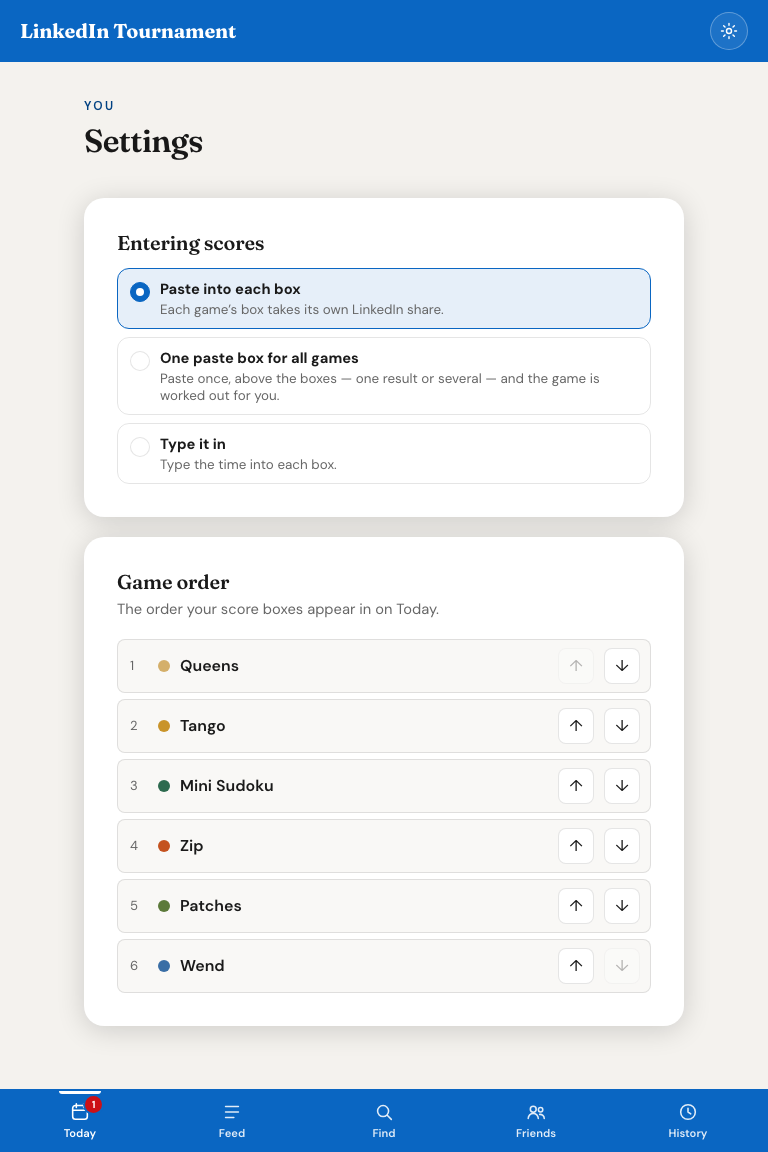
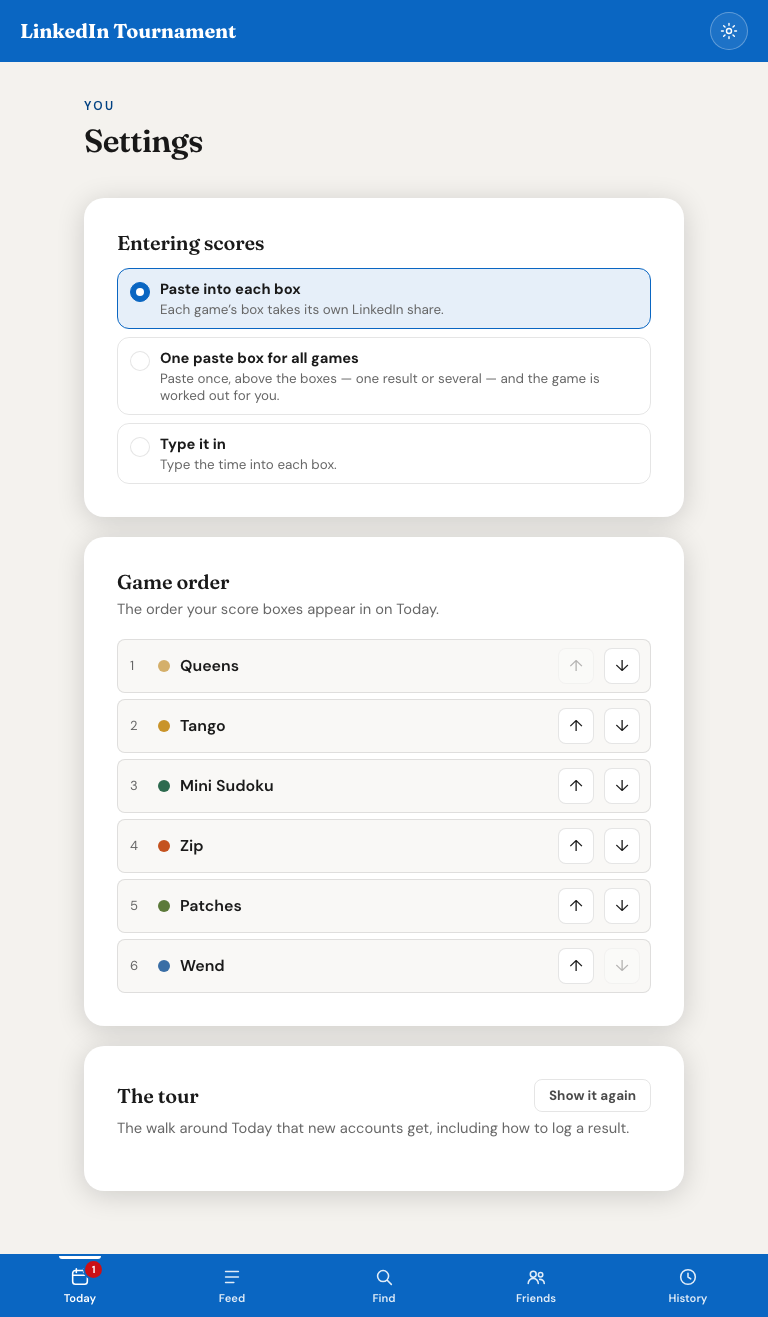
A first-visit tour for new accounts
Seven steps over Today — above all, how to log a result (worded for the
entry mode you've chosen) — then the day tabs, today vs. friends,
tournaments, the nav and settings. Shown once, after onboarding;
Settings can bring it back. The paste box's placeholder is shorter and
in the app's font, so it no longer wraps mid-word on a phone.

diff --git a/components/Walkthrough.jsx b/components/Walkthrough.jsx
@@ -1,0 +1,126 @@
+// components/Walkthrough.jsx
+// The first-visit tour of Today for a brand-new account (profile.showTour,
+// set at onboarding): one step per part of the page, each highlighting it
+// with a short note — above all, how to log a result. Skipping or finishing
+// clears the flag; Settings can bring it back.
+//
+// Steps point at elements by their data-tour attribute. The app shell has
+// two of some (sidebar and phone tab bar), so the visible one is used; a
+// step whose element isn't on the page is left out.
+import { useState, useEffect, useLayoutEffect, useRef, useCallback } from 'react';
+import { useAuth } from '../lib/useAuth';
+
+function stepsFor(mode, name) {
+  const howToLog = {
+    paste: 'Play a game on LinkedIn, then tap Share → Copy. Paste it into that game’s box here and confirm — the time and puzzle number are read for you. Rather type it? Each box has “Type it in”.',
+    single: 'Play a game on LinkedIn, then tap Share → Copy. Paste it into the box at the top — one result, or several at once — and it works out which game each is. Check, then Save.',
+    type: 'Play a game on LinkedIn, then type your time into that game’s box. (You can switch to pasting LinkedIn’s share text in Settings.)',
+  }[mode] || '';
+  return [
+    { id: 'welcome', title: `Welcome, ${name}`, body: 'A quick look around before your first puzzle — about thirty seconds.' },
+    { id: 'scores', target: 'scores', title: 'Log your times here', body: howToLog },
+    { id: 'days', target: 'days', title: 'Today, or yesterday', body: 'New puzzles go up at 9:00. Missed one? Switch to Yesterday and fill it in — it still counts.' },
+    { id: 'compare', target: 'compare', title: 'Today vs. friends', body: 'Where your time ranks among your friends, game by game.' },
+    { id: 'tournaments', target: 'tournaments', title: 'Tournaments', body: 'Compete over a month. Start one with “+ New”, or Find one to join — invites show up at the top of this page.' },
+    { id: 'nav', target: 'nav', title: 'Feed, friends and history', body: 'The Feed shows your friends’ times: react with an emoji or reply. Add people by username in Friends. History is your own record.' },
+    { id: 'settings', target: 'settings', title: 'Make it yours', body: 'Choose one paste box for every game, put your games in your own order, or sign out — it’s all in here.' },
+  ];
+}
+
+const visibleTarget = id => [...document.querySelectorAll(`[data-tour="${id}"]`)].find(el => el.getClientRects().length > 0) || null;
+
+export default function Walkthrough() {
+  const { profile, setShowTour } = useAuth();
+  const [steps, setSteps] = useState(null);
+  const [i, setI] = useState(0);
+  const [rect, setRect] = useState(null);
+  const cardRef = useRef(null);
+
+  // Settle which steps apply once the page has rendered its parts.
+  useEffect(() => {
+    const t = setTimeout(() => {
+      const all = stepsFor(profile?.scoreEntryDefault || 'paste', profile?.username || 'there');
+      setSteps(all.filter(s => !s.target || visibleTarget(s.target)));
+    }, 400);
+    return () => clearTimeout(t);
+  }, [profile?.scoreEntryDefault, profile?.username]);
+
+  const step = steps?.[i];
+
+  // Bring the step's element into view and track where it is.
+  useLayoutEffect(() => {
+    if (!step) return undefined;
+    const el = step.target ? visibleTarget(step.target) : null;
+    if (!el) { setRect(null); return undefined; }
+    el.scrollIntoView({ block: 'center', inline: 'nearest' });
+    const measure = () => setRect(el.getBoundingClientRect());
+    measure();
+    window.addEventListener('resize', measure);
+    window.addEventListener('scroll', measure, true);
+    return () => {
+      window.removeEventListener('resize', measure);
+      window.removeEventListener('scroll', measure, true);
+    };
+  }, [step]);
+
+  useEffect(() => { cardRef.current?.focus(); }, [i, steps]);
+
+  const finish = useCallback(() => {
+    setSteps([]);
+    setShowTour(false).catch(err => console.error("Couldn't save that the tour was seen:", err));
+  }, [setShowTour]);
+
+  useEffect(() => {
+    if (!steps?.length) return undefined;
+    const onKey = e => {
+      if (e.key === 'Escape') finish();
+      else if (e.key === 'ArrowRight') setI(n => Math.min(n + 1, steps.length - 1));
+      else if (e.key === 'ArrowLeft') setI(n => Math.max(n - 1, 0));
+    };
+    document.addEventListener('keydown', onKey);
+    return () => document.removeEventListener('keydown', onKey);
+  }, [steps, finish]);
+
+  if (!step) return null;
+
+  const last = i === steps.length - 1;
+  const PAD = 8;
+  const hole = rect && {
+    top: rect.top - PAD, left: rect.left - PAD, width: rect.width + PAD * 2, height: rect.height + PAD * 2,
+  };
+  // The note goes below the highlighted part if there's room, else above
+  // it; if neither fits (a part taller than the screen, like the score grid
+  // on a phone) it pins to the bottom of the screen, over the part. With
+  // nothing highlighted it sits in the middle.
+  let cardStyle = {};
+  let pinned = false;
+  if (hole) {
+    const vh = window.innerHeight;
+    const NOTE = 230; // roughly the note's height
+    const below = hole.top + hole.height + 12;
+    if (below + NOTE < vh) cardStyle = { top: below };
+    else if (hole.top - 12 - NOTE > 0) cardStyle = { top: hole.top - 12, transform: 'translateY(-100%)' };
+    else pinned = true;
+  }
+
+  return (
+    <div className="tour" role="dialog" aria-modal="true" aria-labelledby="tour-title">
+      {hole
+        ? <div className="tour-hole" style={hole} aria-hidden="true" />
+        : <div className="tour-dim" aria-hidden="true" />}
+      <div className={`tour-card${hole ? '' : ' tour-card-center'}${pinned ? ' tour-card-pinned' : ''}`} style={cardStyle} ref={cardRef} tabIndex={-1} key={step.id}>
+        <span className="tour-count">{i + 1} of {steps.length}</span>
+        <h2 id="tour-title" className="tour-title">{step.title}</h2>
+        <p className="tour-body">{step.body}</p>
+        <div className="tour-actions">
+          {!last && <button type="button" className="tour-skip" onClick={finish}>Skip tour</button>}
+          <span className="tour-spacer" />
+          {i > 0 && <button type="button" className="btn-sm btn-sm-ghost" onClick={() => setI(n => n - 1)}>Back</button>}
+          <button type="button" className="btn-sm" onClick={() => (last ? finish() : setI(n => n + 1))}>
+            {last ? 'Done' : i === 0 ? 'Show me' : 'Next'}
+          </button>
+        </div>
+      </div>
+    </div>
+  );
+}

diff --git a/styles/globals.css b/styles/globals.css
@@ -1009,7 +1009,8 @@ button, input, select {
   border: 1.5px solid var(--sb-input-border, var(--border));
   background: var(--sb-input-bg, var(--surface2));
   color: var(--sb-text, var(--text));
-  font-size: 0.7rem;
+  font-family: inherit;
+  font-size: 0.8rem;
   resize: vertical;
   outline: none;
   box-sizing: border-box;
@@ -2975,6 +2976,53 @@ html[data-theme="overall"] { --ed-bg:#f4f2ee; --ed-bg-soft:#f4f2ee; --ed-text:rg
 .order-btn:disabled { opacity: 0.3; cursor: default; }
 @media (hover: hover) and (pointer: fine) {
   .order-btn:hover:not(:disabled) { background: var(--accent-dim); }
+}
+
+/* ── First-visit tour (components/Walkthrough.jsx) ───────────────────
+   The page dims except for a rounded cut-out round the part being shown
+   (one big shadow, so it costs nothing to move); the note sits next to it.
+   The cut-out glides between steps; the note fades in on each one. */
+.tour { position: fixed; inset: 0; z-index: 60; }
+.tour-dim { position: fixed; inset: 0; background: rgba(10, 20, 35, 0.55); }
+.tour-hole {
+  position: fixed;
+  border-radius: 14px;
+  box-shadow: 0 0 0 9999px rgba(10, 20, 35, 0.55), 0 0 0 3px #fff inset;
+  pointer-events: none;
+  transition: top 260ms var(--ease-out), left 260ms var(--ease-out), width 260ms var(--ease-out), height 260ms var(--ease-out);
+}
+.tour-card {
+  position: fixed;
+  left: 50%;
+  margin-left: calc(min(380px, 100vw - 32px) / -2);
+  width: min(380px, calc(100vw - 32px));
+  padding: 18px 18px 14px;
+  background: var(--surface);
+  color: var(--text);
+  border-radius: var(--radius-sm);
+  box-shadow: 0 18px 50px rgba(0, 0, 0, 0.3);
+  outline: none;
+  animation: tour-in 200ms var(--ease-out) both;
+}
+.tour-card-center { top: 50%; transform: translateY(-50%); }
+.tour-card-pinned { bottom: 16px; }
+@media (max-width: 860px) {
+  /* Clear of the phone's tab bar. */
+  .tour-card-pinned { bottom: calc(80px + env(safe-area-inset-bottom, 0px)); }
+}
+@keyframes tour-in { from { opacity: 0; } }
+.tour-count { font-size: 0.74rem; font-weight: 700; letter-spacing: var(--track-label); text-transform: uppercase; color: var(--accent); }
+.tour-title { font-size: 1.3rem; margin: 4px 0 6px; }
+.tour-body { font-size: 0.93rem; line-height: 1.5; color: var(--text-soft); }
+.tour-actions { display: flex; align-items: center; gap: 8px; margin-top: 14px; }
+.tour-spacer { flex: 1; }
+.tour-skip { border: 0; background: none; padding: 6px 2px; color: var(--text-muted); font: inherit; font-size: 0.86rem; font-weight: 600; cursor: pointer; }
+@media (hover: hover) and (pointer: fine) {
+  .tour-skip:hover { color: var(--text); }
+}
+@media (prefers-reduced-motion: reduce) {
+  .tour-hole { transition: none; }
+  .tour-card { animation: none; }
 }
 
 /* ── Notification pop-up (components/NotificationPopup.jsx) ──────────

diff --git a/components/AppShell.jsx b/components/AppShell.jsx
@@ -98,7 +98,7 @@ export default function AppShell({ children }) {
     <div className="shell">
       <aside className="shell-sidebar">
         <a href="/" className="shell-brand">LinkedIn<br />Tournament</a>
-        <nav className="shell-nav" aria-label="Sections">
+        <nav className="shell-nav" aria-label="Sections" data-tour="nav">
           {NAV.map(n => (
             <a key={n.id} href={n.href} className="shell-nav-item" aria-current={here(n.id)}>
               <NavIcon name={n.icon} />
@@ -107,7 +107,7 @@ export default function AppShell({ children }) {
             </a>
           ))}
         </nav>
-        <div className="shell-me" ref={sideRef}>
+        <div className="shell-me" ref={sideRef} data-tour="settings">
           <button
             type="button"
             className="shell-me-btn"
@@ -125,7 +125,7 @@ export default function AppShell({ children }) {
 
       <header className="shell-topbar">
         <a href="/" className="topnav-brand">LinkedIn Tournament</a>
-        <div className="topnav-right" ref={topRef}>
+        <div className="topnav-right" ref={topRef} data-tour="settings">
           <button
             type="button"
             className="gear-btn"
@@ -142,7 +142,7 @@ export default function AppShell({ children }) {
 
       <div className="shell-content">{children}</div>
 
-      <nav className="shell-tabbar" aria-label="Sections">
+      <nav className="shell-tabbar" aria-label="Sections" data-tour="nav">
         {NAV.map(n => (
           <a key={n.id} href={n.href} className="shell-tab" aria-current={here(n.id)}>
             <span className="shell-tab-icon">

diff --git a/lib/useAuth.js b/lib/useAuth.js
@@ -109,6 +109,10 @@ export function AuthProvider({ children }) {
         username: username.trim(),
         friends: [],
         createdAt: serverTimestamp(),
+        // A brand-new account gets the walkthrough on its first visit to
+        // Today (components/Walkthrough.jsx); finishing or skipping it
+        // clears this.
+        showTour: true,
       }, { merge: true });
     });
 
@@ -124,6 +128,13 @@ export function AuthProvider({ children }) {
     await setDoc(doc(db, 'users', user.uid), { scoreEntryDefault: mode }, { merge: true });
   }
 
+  // The walkthrough: finished/skipped, or asked for again from Settings.
+  async function setShowTour(show) {
+    if (!user?.uid) throw new Error('You must be signed in.');
+    setProfile(prev => (prev ? { ...prev, showTour: show } : prev));
+    await setDoc(doc(db, 'users', user.uid), { showTour: show }, { merge: true });
+  }
+
   // The order the games' score boxes appear in: a list of game ids.
   async function setGameOrder(order) {
     if (!user?.uid) throw new Error('You must be signed in.');
@@ -135,7 +146,7 @@ export function AuthProvider({ children }) {
     <AuthContext.Provider value={{
       user, profile, profileChecked, loading,
       sendSignInLink, completeSignInFromLink, logout,
-      completeOnboarding, setScoreEntryDefault, setGameOrder,
+      completeOnboarding, setScoreEntryDefault, setGameOrder, setShowTour,
     }}>
       {children}
     </AuthContext.Provider>

diff --git a/pages/index.jsx b/pages/index.jsx
@@ -14,6 +14,7 @@ import DailyCompareWidget from '../components/DailyCompareWidget';
 import PersonalHistoryTab from '../components/PersonalHistoryTab';
 import SharedScoreIntake from '../components/SharedScoreIntake';
 import NotificationPopup from '../components/NotificationPopup';
+import Walkthrough from '../components/Walkthrough';
 import Skeleton from '../components/Skeleton';
 
 function InfoIcon() {
@@ -243,7 +244,8 @@ export default function Home() {
         {homeTab === 'today' ? (
           <>
             <SharedScoreIntake />
-            <NotificationPopup />
+            {/* A new account's first look gets the tour; the pop-up waits. */}
+            {profile.showTour ? <Walkthrough /> : <NotificationPopup />}
 
             {!invitesLoading && invites.length > 0 && (
               <section className="panel" style={{ marginBottom: 24 }}>
@@ -271,7 +273,7 @@ export default function Home() {
               <div className="home-main">
                 <ScoreBoxes />
 
-                <section className="panel panel-accent">
+                <section className="panel panel-accent" data-tour="tournaments">
                   <div className="panel-head-row">
                     <h2>Tournaments</h2>
                     <div style={{ display: 'flex', gap: 8 }}>

diff --git a/pages/settings.jsx b/pages/settings.jsx
@@ -15,7 +15,7 @@ const MODE_HELP = {
 };
 
 export default function Settings() {
-  const { user, profile, profileChecked, loading, setScoreEntryDefault, setGameOrder } = useAuth();
+  const { user, profile, profileChecked, loading, setScoreEntryDefault, setGameOrder, setShowTour } = useAuth();
   const router = useRouter();
 
   useEffect(() => {
@@ -85,6 +85,20 @@ export default function Settings() {
               </li>
             ))}
           </ol>
+        </section>
+
+        <section className="panel" style={{ marginTop: 20 }} aria-labelledby="tour-h">
+          <div className="panel-head-row">
+            <h2 id="tour-h">The tour</h2>
+            <button
+              type="button"
+              className="btn-sm btn-sm-ghost"
+              onClick={() => save(async () => { await setShowTour(true); window.location.assign('/'); })}
+            >
+              Show it again
+            </button>
+          </div>
+          <div className="section-sub">The walk around Today that new accounts get, including how to log a result.</div>
         </section>
       </main>
     </AppShell>

diff --git a/components/ScoreBoxes.jsx b/components/ScoreBoxes.jsx
@@ -209,7 +209,7 @@ export default function ScoreBoxes() {
     <section className="score-day">
       <div className="score-day-bar">
         <span className="score-day-label">Scores for</span>
-        <div className="score-day-tabs">
+        <div className="score-day-tabs" data-tour="days">
           {/* Name and date are separate spans so a phone can stack them —
               "Today" over "Wed 7 Oct" — and still fit both days on one row. */}
           <button
@@ -241,7 +241,7 @@ export default function ScoreBoxes() {
 
       {defaultMode === 'single' && <QuickPasteBox scoresByDate={{ [dateIso]: scores }} />}
 
-      <div className="score-boxes-grid">
+      <div className="score-boxes-grid" data-tour={defaultMode === 'single' ? undefined : 'scores'}>
         {games.map(game => (
           <ScoreBox
             key={`${game.id}|${dateIso}`}

diff --git a/components/DailyCompareWidget.jsx b/components/DailyCompareWidget.jsx
@@ -39,7 +39,7 @@ export default function DailyCompareWidget() {
   const theme = themeFor(gameId);
 
   return (
-    <aside className="daily-compare" style={{ '--dc-accent': theme.accent, '--dc-accent2': theme.accent2 }}>
+    <aside data-tour="compare" className="daily-compare" style={{ '--dc-accent': theme.accent, '--dc-accent2': theme.accent2 }}>
       <div className="daily-compare-title">Today vs. friends</div>
 
       <select

diff --git a/components/QuickPasteBox.jsx b/components/QuickPasteBox.jsx
@@ -68,7 +68,7 @@ export default function QuickPasteBox({ scoresByDate = {} }) {
   }
 
   return (
-    <section className="quick-paste" aria-label="Paste your LinkedIn results">
+    <section className="quick-paste" aria-label="Paste your LinkedIn results" data-tour="scores">
       <label htmlFor="quick-paste-input" className="quick-paste-label">Paste from LinkedIn</label>
       <textarea
         id="quick-paste-input"

diff --git a/components/PasteScoreForm.jsx b/components/PasteScoreForm.jsx
@@ -78,7 +78,8 @@ export default function PasteScoreForm({ gameId, dateIso, onSave, onCancel, auto
   return (
     <div className="paste-score-form">
       <textarea
-        placeholder="Paste LinkedIn share"
+        placeholder="Paste here"
+        aria-label="Paste LinkedIn share"
         autoCapitalize="none"
         autoCorrect="off"
         spellCheck={false}
